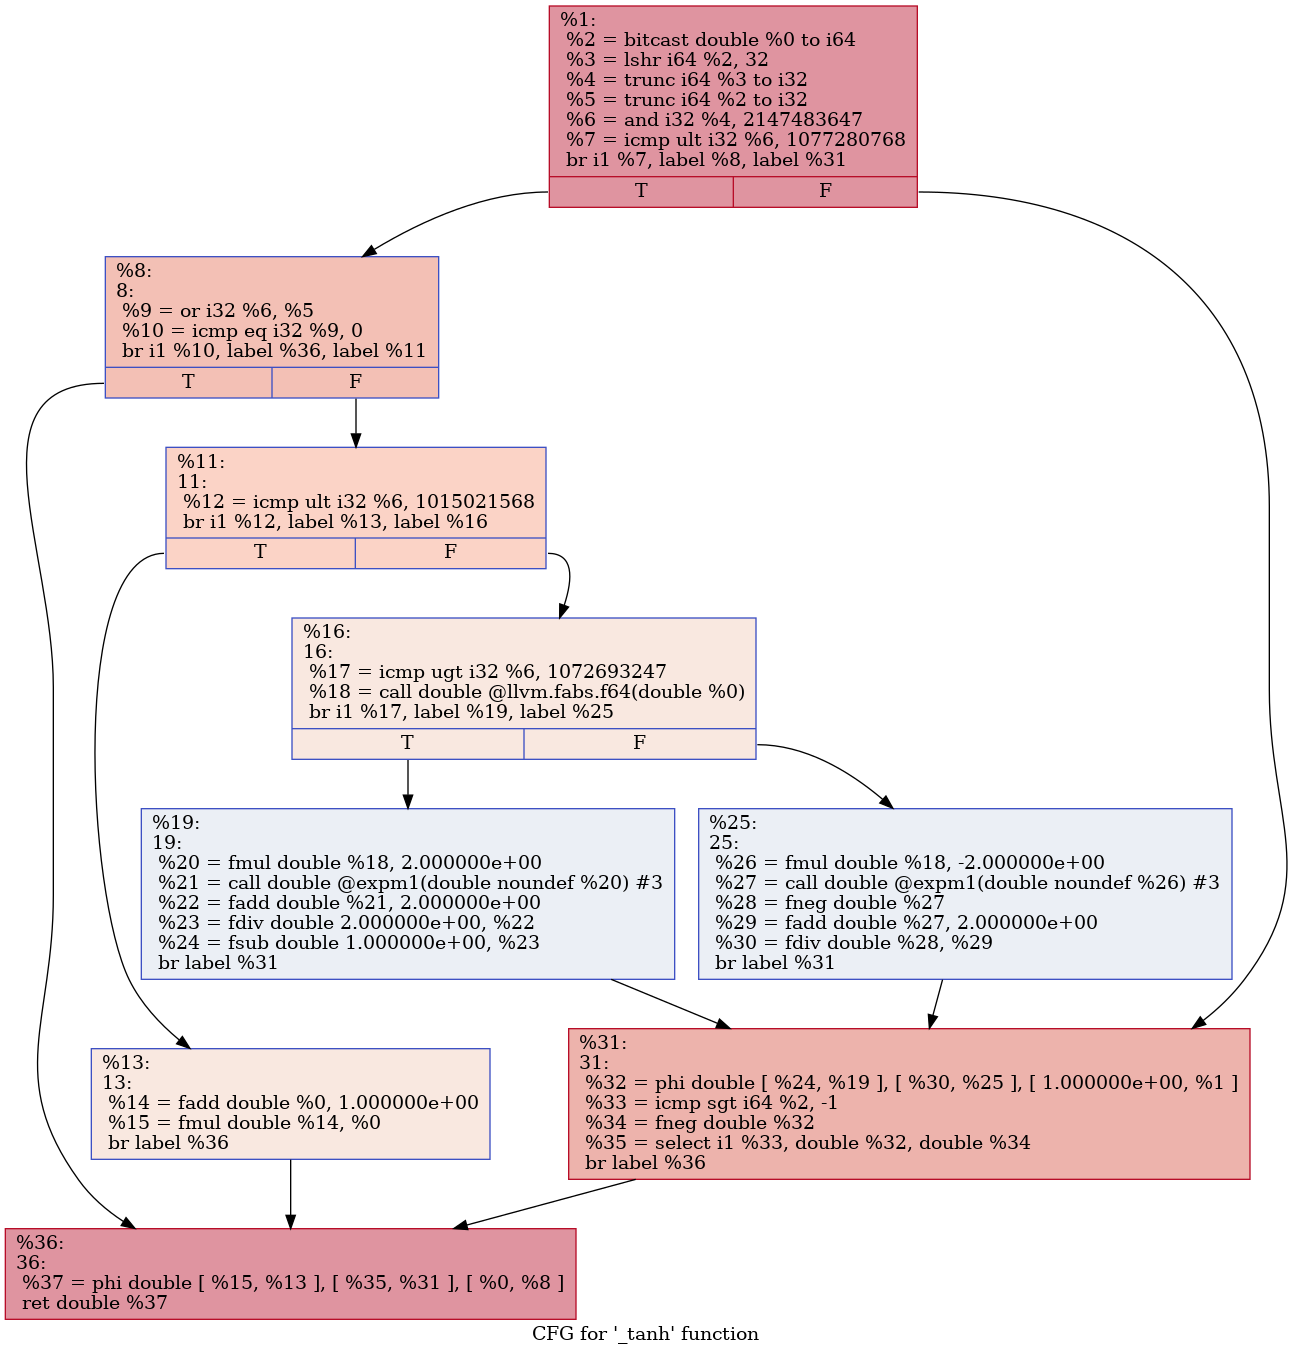
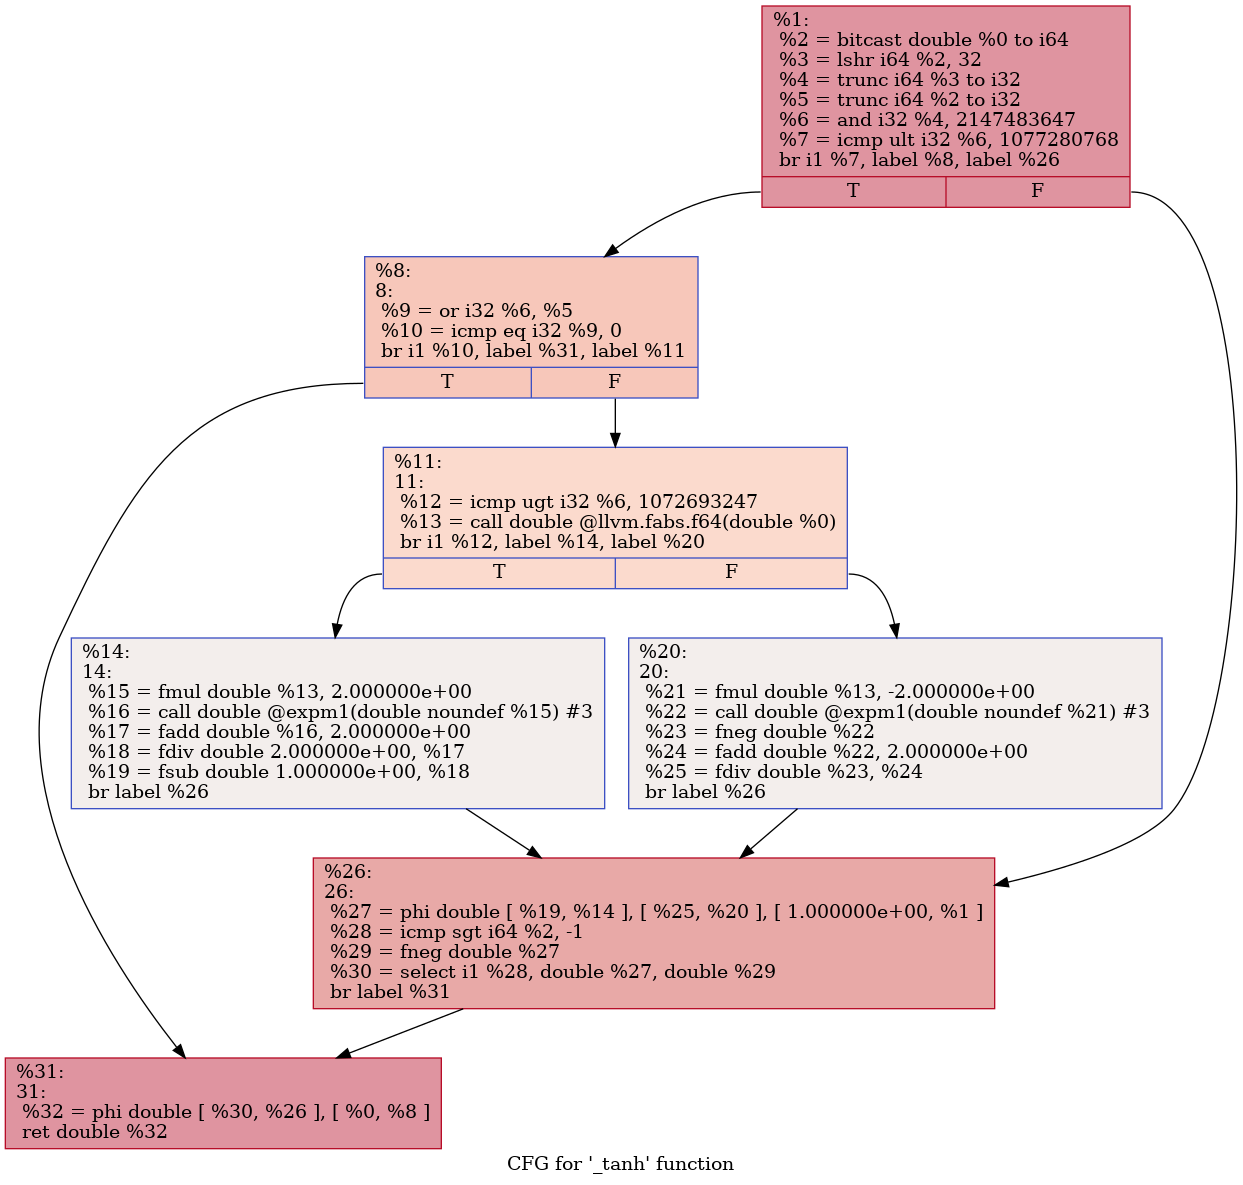
Modify RemoveSpecials Pass. Add the subNormal case too.

diff --git a/src/RemoveSpecials.cpp b/src/RemoveSpecials.cpp
@@ -2,6 +2,7 @@
 
 #include "llvm/IR/BasicBlock.h"
 #include "llvm/IR/CFG.h"
+#include "llvm/IR/Constants.h"
 #include "llvm/Pass.h"
 #include "llvm/Passes/PassBuilder.h"
 #include "llvm/Passes/PassPlugin.h"
@@ -16,79 +17,125 @@ using namespace llvm;
 #define DEBUG_TYPE "remove-specials"
 
 //------------------------------------------------------------------------------
+// Util functions
+//------------------------------------------------------------------------------
+uint32_t RemoveSpecials::getConstantVal(Value* val) {
+  ConstantInt *CI = dyn_cast<ConstantInt>(val);
+  return CI->getSExtValue();
+}
+
+llvm::Value* RemoveSpecials::getOperandFromCondition(Value* Cond, size_t pos) {
+  ICmpInst *ICmp = dyn_cast<ICmpInst>(Cond);
+  return ICmp->getOperand(pos);
+}
+
+bool RemoveSpecials::isConditionHighwordofInput(Value* Cond) {
+  std::stack<llvm::Instruction*> insts;
+
+  Value* op = getOperandFromCondition(Cond, 0);
+  insts.push(dyn_cast<Instruction>(Cond)); // push branch condition
+
+  // trace the instructions consist of target operands
+  // this may not work -- need to be modified precisely
+  while(1) {
+      if (Instruction *I = dyn_cast<Instruction>(op)) {
+          insts.push(I);
+          op = I->getOperand(0);
+          continue;
+      }
+      break;
+  }
+
+  // detect {bitcast - lshr - trunc} sequence
+  std::vector<bool> isValidSequence(3, false);
+  while(!insts.empty()) {
+      Instruction* I = insts.top();
+      insts.pop(); // remove top instruction
+
+      if (isValidSequence[0] == false && I->getOpcode()==Instruction::BitCast) {
+          isValidSequence[0] = true;
+      }
+      if (isValidSequence[1] == false && I->getOpcode()==Instruction::LShr) {
+          isValidSequence[1] = true;
+      }
+      if (isValidSequence[2] == false && I->getOpcode()==Instruction::Trunc) {
+          isValidSequence[2] = true;
+      }
+  }
+
+  return isValidSequence[0] & isValidSequence[1] & isValidSequence[2];
+}
+
+//------------------------------------------------------------------------------
 // Crucial functions
 //------------------------------------------------------------------------------
 
-llvm::Value* RemoveSpecials::getOperandFromCondition(Value* Cond) {
-    ICmpInst *ICmp = dyn_cast<ICmpInst>(Cond);
-    return ICmp->getOperand(0);
+bool RemoveSpecials::isSpecialBranch(llvm::BasicBlock* BB, llvm::BranchInst *brInst) {
+  Value* Cond = brInst->getCondition();
+
+  // First, check if the intermediate is specials(INF/NaN)
+  uint32_t opI = getConstantVal(getOperandFromCondition(Cond, 1));
+  uint32_t opT = 0x7ff00000 - 1; // since the condition holds 'equal'
+  if (!(opI == opT))
+    return false;
+
+  // Then check if the other operand is high word of the input 
+  bool isCondHighWord = isConditionHighwordofInput(Cond);
+
+  return isCondHighWord;
 }
 
-bool RemoveSpecials::isSpecialBranch(llvm::BasicBlock* BB) {
-    std::stack<llvm::Instruction*> insts;
+bool RemoveSpecials::isSubNormalBranch(llvm::BasicBlock* BB, llvm::BranchInst *brInst) {
+  Value* Cond = brInst->getCondition();
 
-    auto term = BB->getTerminator();
-    BranchInst *brInst = dyn_cast<BranchInst>(term);
-    Value* cond = brInst->getCondition();
-    Value* op = getOperandFromCondition(cond);
+  // First, check if the intermediate is subNormal
+  uint32_t opI = getConstantVal(getOperandFromCondition(Cond, 1));
+  uint32_t opT = 0x3c800000; // subnormal value in ieee-754 representation
+  if (!(opI == opT))
+    return false;
 
-    insts.push(dyn_cast<Instruction>(cond)); // push branch condition
+  // Then check if the other operand is high word of the input 
+  bool isCondHighWord = isConditionHighwordofInput(Cond);
 
-    // trace the instructions consists of target operands
-    // this may not work -- need to be modified precisely
-    while(1) {
-        if (Instruction *I = dyn_cast<Instruction>(op)) {
-            insts.push(I);
-            op = I->getOperand(0);
-            continue;
-        }
-        break;
-    }
-
-    // detect {bitcast - lshr - trunc} sequence
-    std::vector<bool> isValidSequence(3, false);
-    while(!insts.empty()) {
-        Instruction* I = insts.top();
-        insts.pop(); // remove top instruction
-        // errs() << *I << "\n";
-
-        if (isValidSequence[0] == false && I->getOpcode()==Instruction::BitCast) {
-            isValidSequence[0] = true;
-        }
-        if (isValidSequence[1] == false && I->getOpcode()==Instruction::LShr) {
-            isValidSequence[1] = true;
-        }
-        if (isValidSequence[2] == false && I->getOpcode()==Instruction::Trunc) {
-            isValidSequence[2] = true;
-        }
-    }
-
-    return isValidSequence[0] & isValidSequence[1] & isValidSequence[2];
+  return isCondHighWord;
 }
 
 PreservedAnalyses RemoveSpecials::run(llvm::Function &Func,
                                       llvm::FunctionAnalysisManager &) {
-    // errs() << "\n- Start of Function [" << Func.getName() << "]\n";
+  bool specialFound = false;
+  bool subnormalFound = false;
+  
+  for (auto &BB : Func) {
+    auto term = BB.getTerminator(); // check BB which contains conditional branch
+    BranchInst *brInst = dyn_cast<BranchInst>(term);
 
-    for (auto &BB : Func) {
-      // We currently assume that only one BB holds INF/NaN branch among BBs.
-      // Thus, since `isMergeable=true` occurs only once throughout BBs, we break the loop
-      auto term = BB.getTerminator(); // check BB which contains conditional branch
-      if (BranchInst *brInst = dyn_cast<BranchInst>(term)) {
-        if (brInst->isConditional()) {
-            bool isMergeable = isSpecialBranch(&BB); // check the branch's semantic
-            if (isMergeable) {
-                // remove branch by setting the same successor on both True/False branch
-                // To remove other successors, apply simplify-cfg pass would be good choice :) 
-                errs() << "[*] BB    - isMergeable = True detected!\n\n";
-                brInst->setSuccessor(0, brInst->getSuccessor(1));
-                break;
-            }
+    if ( brInst && (brInst->isConditional())) {
+      if (!specialFound) {
+        bool isMergeable = isSpecialBranch(&BB, brInst); // check the branch's semantic
+          if (isMergeable) {
+              // remove branch by setting the same successor on both True/False branch
+              // To remove other successors, apply simplify-cfg pass would be good choice :) 
+              errs() << "[*] BB    - isMergeable = True detected!\n";
+              brInst->setSuccessor(0, brInst->getSuccessor(1));
+              specialFound = true;
+          }
+      }
+      if (!subnormalFound) {
+        bool isSubNormal = isSubNormalBranch(&BB, brInst); // check the branch's semantic
+        if (isSubNormal) {
+          errs() << "[*] BB    - isSubNormal = True detected!\n\n";
+          brInst->setSuccessor(0, brInst->getSuccessor(1));
+          subnormalFound = true;
         }
       }
     }
 
-    return llvm::PreservedAnalyses::all();
+    // We currently assume that only one BB holds INF/NaN or subNormal branch among BBs.
+    // Thus, since each case occurs only once throughout BBs, we break the loop
+    if (specialFound & subnormalFound) break;
+  }
+
+  return llvm::PreservedAnalyses::all();
 }
 
 //-----------------------------------------------------------------------------

diff --git a/include/RemoveSpecials.h b/include/RemoveSpecials.h
@@ -13,6 +13,7 @@
 #define LLVM_TUTOR_REMOVESPECIALS_H
 
 #include "llvm/IR/PassManager.h"
+#include "llvm/IR/Instructions.h"
 #include "llvm/Pass.h"
 #include "llvm/Support/raw_ostream.h"
 
@@ -29,8 +30,12 @@ struct RemoveSpecials : public llvm::PassInfoMixin<RemoveSpecials> {
     public:
         explicit RemoveSpecials(llvm::raw_ostream &OutS) : OS(OutS) {}
         
-        llvm::Value* getOperandFromCondition(llvm::Value* Cond);
-        bool isSpecialBranch(llvm::BasicBlock* BB);
+        uint32_t getConstantVal(llvm::Value* val);
+        llvm::Value* getOperandFromCondition(llvm::Value* Cond, size_t pos);
+        bool isConditionHighwordofInput(llvm::Value* Cond);
+
+        bool isSpecialBranch(llvm::BasicBlock* BB, llvm::BranchInst *brInst);
+        bool isSubNormalBranch(llvm::BasicBlock* BB, llvm::BranchInst *brInst);
 
         llvm::PreservedAnalyses run(llvm::Function &F, llvm::FunctionAnalysisManager &);
 
